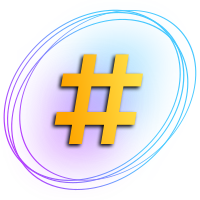
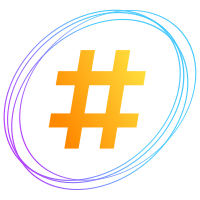
update svg

Changed region(s): [[0.15, 0.15, 0.81, 0.87], [0.42, 0.42, 0.57, 0.57]]

diff --git a/README.md b/README.md
@@ -1,6 +1,6 @@
 <p align="center">
   <a href="https://bootsharp.com" target="_blank" rel="noopener noreferrer">
-    <img width="200" src="https://raw.githubusercontent.com/Elringus/DotNetJS/feat/revamp/Assets/PackageIcon7.svg" alt="bootsharp logo">
+    <img width="200" src="https://raw.githubusercontent.com/Elringus/DotNetJS/feat/revamp/Assets/PackageIcon.svg" alt="bootsharp logo">
   </a>
 </p>
 <br/>
